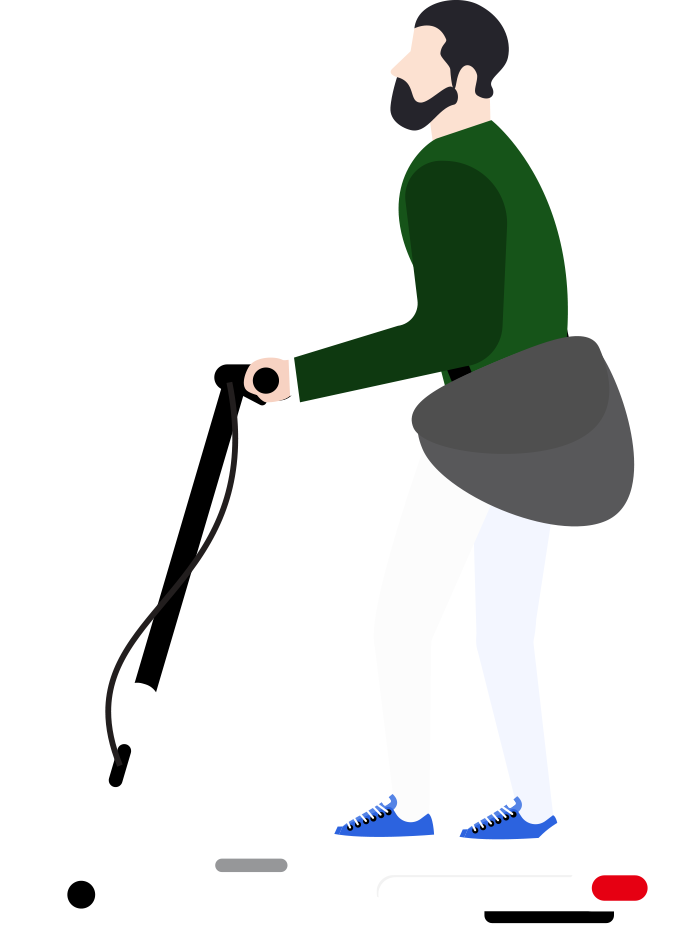
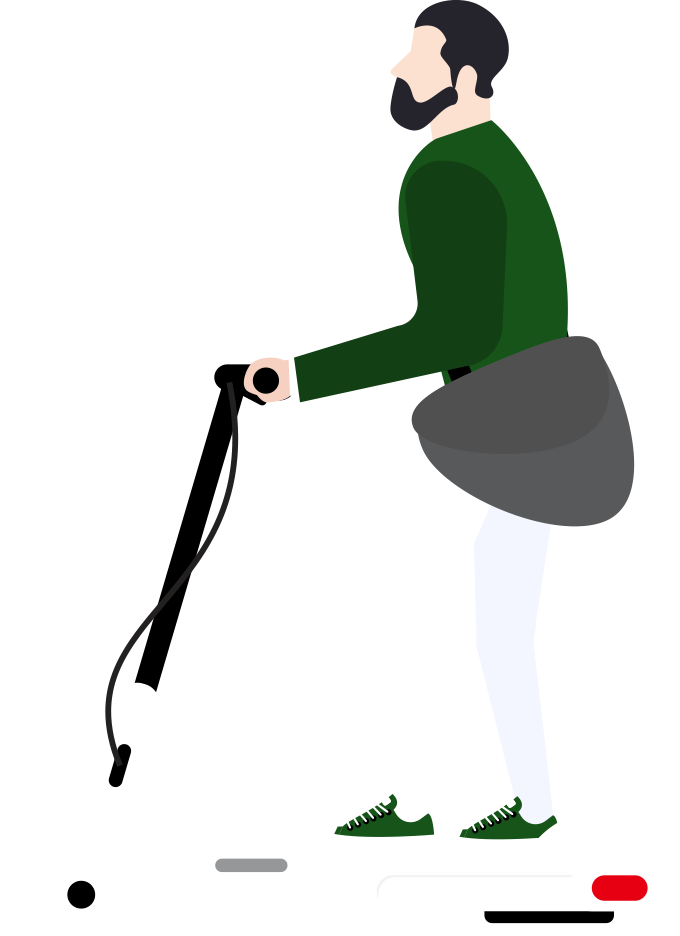
port

Changed region(s): [[0.6794, 0.8365, 0.8338, 0.8985], [0.4941, 0.8365, 0.6485, 0.8985]]

diff --git a/index.html b/index.html
@@ -211,7 +211,7 @@
                 </div>
                 </div>
                 <div class="home__img__box wow animate__animated animate__fadeInRight" data-wow-delay="1s">
-                    <img src="./img/메인사진.jpg" alt="" class="intro-img">
+                    <img src="./img/메인사진2.png" alt="" class="intro-img">
                 </div>
             
             
@@ -252,7 +252,6 @@
             <div><a href="https://hongyungeun.github.io/hyun/" target="_blank"><img src="./img/hyun_sum.png" alt=""></a></div>
             <div><a href="./hanwha_clone/index.html" target="_blank"><img src="./img/han_sum.png" alt=""></a></div>
             <div><a href="https://hongyungeun.github.io/grid/" target="_blank"><img src="./img/grid_sum.png" alt=""></a></div>
-            <div><a href="#" target="_blank"><img src="./img/web-1012467_1920.jpg" alt=""></a></div>
         </div>
     </section>
     <section class="grid inner">

diff --git a/css/styel.css b/css/styel.css
@@ -985,6 +985,9 @@ padding: 5rem;
         --normal-font-size: .938rem;
         --small-font-size: .75rem;
     }
+    .main-title {
+        margin-left: 0;
+    }
     .main-title img{
         width: 200px;
         vertical-align: top;
@@ -1029,7 +1032,9 @@ padding: 5rem;
 }
 /* ========================= Mobile ========================= */
 @media (max-width: 568px){
-    
+    .main-title {
+        margin-left: 0;
+    }
     /* ====================== Skills ===================== */
     .skills__list {
         flex-direction: column;
